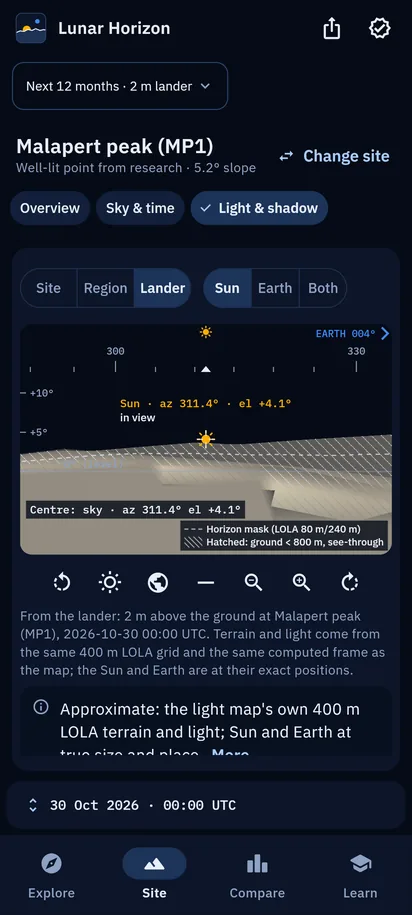
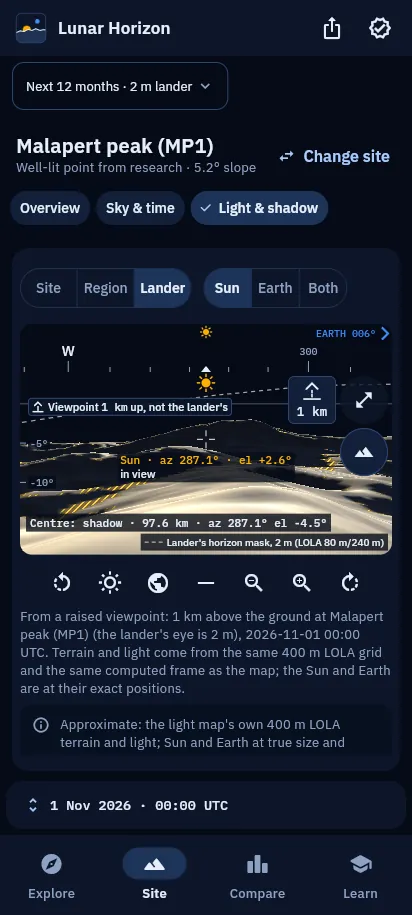
Docs: bring the README, plan and guides up to 1.11.0, with new screenshots
- README: the 7 screenshots re-shot from the 1.11.0 web build (1 Nov 2026,
  default settings); the two Lander's view shots show the full-screen view
  and the phone view from the 1 km viewpoint with relief shading. Captions
  and alt text match what each image shows. The Lander's view paragraph
  covers full screen, site switching, relief shading and the view from
  higher; the Overview paragraph and the sources mention the IM-1 and IM-2
  photo links (linked, never bundled).
- PLAN.md: status to 2026-11-01, with 1.9.1 done and 1.9.2 to 1.11.0 added.
- release_checklist.md: the current release and tag examples to 1.11.0;
  the Android 7 emulator runs of 1.9.2 and 1.11.0 recorded (it was listed
  as not tested).
- demo_script, demo_30s, judge_one_pager, final_review_plan, ux_spec and
  submission: version references and feature notes to 1.11.0. The demo
  video and team sections are left for the team.

Claude-Session: https://claude.ai/code/session_014cZmiMc7imPdB8JrrmQw6C

diff --git a/README.md b/README.md
@@ -9,7 +9,7 @@ Lunar Horizon answers one question: *which south-pole landing site, on which dat
 
 The same Flutter code runs as a web app and on Android.
 
-> **Status.** Complete: Explore (the map with every site ranked), Site (Overview, Sky & time with the classic sky plot and timeline, and the light & shadow map with the 3D *Lander's view*), Compare and Learn, plus the *best landing window* finder. Suggested landings keep the Sun and Earth at least 0.25° above the skyline. The Sun's visible fraction allows for lunar eclipses (Earth in front of the Sun), and the sites include the NASA CLPS landers' positions (IM-1, IM-2) and the VIPER area, plus planned international sites (Chang'e-7, Chandrayaan-5/LUPEX). Code: [localizedprojects/CLPS-MOON-BROWSER](https://github.com/localizedprojects/CLPS-MOON-BROWSER). Web app: <https://localizedprojects.github.io/CLPS-MOON-BROWSER/>.
+> **Status.** Complete: Explore (the map with every site ranked), Site (Overview, Sky & time with the classic sky plot and timeline, and the light & shadow map with the 3D *Lander's view*, which also opens full screen), Compare and Learn, plus the *best landing window* finder. Suggested landings keep the Sun and Earth at least 0.25° above the skyline. The Sun's visible fraction allows for lunar eclipses (Earth in front of the Sun), and the sites include the NASA CLPS landers' positions (IM-1, IM-2, with links to their real photos) and the VIPER area, plus planned international sites (Chang'e-7, Chandrayaan-5/LUPEX). Code: [localizedprojects/CLPS-MOON-BROWSER](https://github.com/localizedprojects/CLPS-MOON-BROWSER). Web app: <https://localizedprojects.github.io/CLPS-MOON-BROWSER/>.
 
 **Space Apps submission:** [docs/submission.md](docs/submission.md) (summary, NASA data used, use of AI, links).
 
@@ -26,19 +26,19 @@ Scan the code with your phone's camera. It opens <https://localizedprojects.gith
 
 ### Screenshots
 
-Version 1.9.2 web build, 30 October 2026: Next 12 months, 2 m lander, default rules, Balanced goal, time shown 30 October 2026 00:00 UTC.
+Version 1.11.0 web build, 1 November 2026: Next 12 months, 2 m lander, default rules, Balanced goal, time shown 1 November 2026 00:00 UTC. The two Lander's view shots are drawn from the 1 km viewpoint with relief shading on.
 
 | Explore | Malapert peak (MP1): best landing window and Sky & time |
 |---|---|
-| ![Explore: the top pick of the 19 ranked preset sites (Malapert peak, MP1: Sun and Earth both up 43% of the time), the sites on the LOLA terrain map, and the selected-site card](docs/screenshots/explore-desktop.webp) | ![Site: the best 14-day landing window for MP1 next to the Sky & time view](docs/screenshots/site-landing-sky-desktop.webp) |
+| ![Explore: the top pick of the 19 ranked preset sites (Malapert peak, MP1: Sun and Earth both up 43% of the time) with its computed light snapshot, the sites on the LOLA terrain map, and the selected-site card](docs/screenshots/explore-desktop.webp) | ![Site: the best 14-day landing window for MP1 (suggested landing 17 Nov 2026 02:00 UTC) next to the Sky & time view with the sky plot, timeline and time bar](docs/screenshots/site-landing-sky-desktop.webp) |
 
 | Compare | Phone: landing window | Phone: Sky & time |
 |---|---|---|
-| ![Compare: the top 3 sites with the winner card, the worked score and the side-by-side chart](docs/screenshots/compare-desktop.webp) | ![Phone: the best 14-day landing window card for MP1](docs/screenshots/landing-phone.webp) | ![Phone: Sky & time with the sky plot of the terrain skyline and the Sun and Earth paths](docs/screenshots/sky-phone.webp) |
+| ![Compare: the top 3 sites with the winner card (MP1 and IM-1 Odysseus tied at 62 / 100), the worked score and the side-by-side chart](docs/screenshots/compare-desktop.webp) | ![Phone: the best 14-day landing window card for MP1](docs/screenshots/landing-phone.webp) | ![Phone: Sky & time with the sky plot of the terrain skyline and the Sun and Earth paths, and the time bar with the next good stretch](docs/screenshots/sky-phone.webp) |
 
-| Light & shadow: Lander view (MP1, facing the Sun) | Phone: Lander view |
+| Lander's view, full screen (MP1, facing the Sun, 1 km viewpoint) | Phone: Lander's view (1 km viewpoint) |
 |---|---|
-| ![Light & shadow, Lander view at Malapert peak (MP1): the horizon from 2 m up, facing the Sun, with the computed light on the 400 m LOLA terrain](docs/screenshots/lander-desktop.webp) | ![Phone: the Lander view at Malapert peak (MP1), facing the Sun, with its turn, face and zoom buttons](docs/screenshots/lander-phone.webp) |
+| ![The Lander's view full screen at Malapert peak (MP1), facing the Sun from a viewpoint 1 km up (labelled "Viewpoint 1 km up, not the lander's") with relief shading on: the computed light on the 400 m LOLA terrain, the lander's dashed 2 m horizon mask, and the site switcher and layer switch in the top bar](docs/screenshots/lander-desktop.webp) | ![Phone: the Lander's view at Malapert peak (MP1) in Light & shadow, facing the Sun from a viewpoint 1 km up with relief shading on, with its height, relief and full-screen buttons and its turn, face and zoom buttons](docs/screenshots/lander-phone.webp) |
 
 ---
 
@@ -52,11 +52,11 @@ It opens with a short animation (the Sun skimming along the south-pole horizon, 
   - The map opens on the region inside 80°S. Zoom out (or drag past the edge) to see on to about 75°S: coarser shaded relief there, with the sunlight, Earth and permanent-shadow layers continuing across 80°S. Custom spots still go inside the 80°S circle.
   - Site cards show a terrain thumbnail, bars for sunlight, Earth in view and both together, and the longest night. On phones and tablets Explore shows the terrain map with the top pick and a row of site cards under it; on wide screens the list and the map sit side by side. A tray collects sites to compare.
 - **Site: everything about one site**, in three tabs (deep links `#/site/<id>/overview`, `/sky` and `/light`):
-  - **Overview:** *When should you land here?*: pick a surface-mission length (1 to 30 days, 14 by default) and *Find the best landing window* returns the earliest span of landing times in your dates whose whole mission keeps the Sun and Earth above the skyline, with a suggested landing and the mission's end. If no window fits, it gives the closest fit for your goal and the longest Sun + Earth stretch there is. *Use these dates* sets the period around the answer, *Next window that fits* moves on, and an approximation badge states how far the timing can be trusted. Next, *At a glance*: what the place is, why it is on the list (or, for your own spot, what stands out against the catalogue sites), what to watch out for and how it ranks. Catalogue sites are described from published, fact-checked sources, listed under *Details and sources*; your own spots are described by the app from its own numbers, with the coarse-map lines marked approximate. Then, under *More about this site*, a light snapshot of the best moment or of the middle of the longest night; the three headline shares; *Best time to be here* (the longest Sun + Earth stretch, with *Show me* and *See the light at that moment*); a *Which days work?* calendar of good days (Sun and Earth up together at least half the UTC day, with the best stretch outlined); *Plan for the dark* (the longest night that batteries and heaters must last, and the longest time without Earth); and *About this site*, with the source, slope and the 18.6-year average sunlight and Earth visibility for catalogue sites.
+  - **Overview:** *When should you land here?*: pick a surface-mission length (1 to 30 days, 14 by default) and *Find the best landing window* returns the earliest span of landing times in your dates whose whole mission keeps the Sun and Earth above the skyline, with a suggested landing and the mission's end. If no window fits, it gives the closest fit for your goal and the longest Sun + Earth stretch there is. *Use these dates* sets the period around the answer, *Next window that fits* moves on, and an approximation badge states how far the timing can be trusted. Next, *At a glance*: what the place is, why it is on the list (or, for your own spot, what stands out against the catalogue sites), what to watch out for and how it ranks. Catalogue sites are described from published, fact-checked sources, listed under *Details and sources*; your own spots are described by the app from its own numbers, with the coarse-map lines marked approximate. Then, under *More about this site*, a light snapshot of the best moment or of the middle of the longest night; the three headline shares; *Best time to be here* (the longest Sun + Earth stretch, with *Show me* and *See the light at that moment*); a *Which days work?* calendar of good days (Sun and Earth up together at least half the UTC day, with the best stretch outlined); *Plan for the dark* (the longest night that batteries and heaters must last, and the longest time without Earth); and *About this site*, with the source, slope and the 18.6-year average sunlight and Earth visibility for catalogue sites. The IM-1 and IM-2 landed sites add *Real photos from this lander*: links to NASA's pages with each lander's own surface photos and the Lunar Reconnaissance Orbiter's photos of it, each with its date and credit (linked, never bundled).
   - **Sky & time:** status chips for the Sun, the Earth and power + contact at the cursor; a **sky plot** of the site's real terrain skyline with the Sun's and Earth's paths over the period and their positions and heights at the time shown; a **timeline** of the Sun's and Earth's heights over the period against the skyline beneath each, with bars for when the Sun, Earth and both together are up (tap it to jump there); and a time bar to play, scrub, step by day or jump to the next Sun + Earth stretch (a good one, 24 h or more, first). Touch any chart (here or on Compare) to see it alone, full screen, as a still picture made at the screen's size (only its X closes it); the timeline turns a phone or tablet sideways there. A *Simple view* switch shows plain-words versions instead: a *When* answer (when Sun and Earth are next up together and for how long, the next dark spell, when Earth next comes into view), a timeline of the stretches with their durations for the next 2 weeks, 2 months or the whole period, a *Coming up* list, and a *Where to look* sky view.
   - **Sky & time** and **Light & shadow** share a time bar: Play, a day back or forward and a slider. Play hides the top bars so the charts stay still; they come back when you scroll to the very top. The time bar folds into a slim strip with its chevron, and the app remembers that.
   - **Light & shadow:** computed light and shadow on the terrain map for the selected moment, traced on the device from the LOLA elevation model. Choose a 128 km close-up around the site or the whole region inside 80°S, and a *Sunlight*, *Earth view* or *Both* layer. Sun and Earth bearing arrows start at the site; a legend gives the share of the area that is sunlit or sees Earth, and a badge states the measured accuracy (see [Validation](#validation)). Play moves ten hours per step here, so the shadows sweep at a readable pace; while playing the map is drawn at half resolution and says so, and pausing brings back full detail.
-  - **Lander's view** (the third view in Light & shadow): what you would see standing on the lander, 2 m (or 10 m) above the selected site, at the time on the time bar. The terrain is the shadow engine's own LOLA height grid (400 m around the site, 800 m blocks out to 300 km), lit pixel for pixel by the same computed light frames, and the Sun and Earth are drawn at their exact apparent positions and sizes. Drag to look around, pinch or use the buttons to zoom, and jump to the Sun or Earth. A compass tape, an elevation scale and the dashed LOLA horizon mask frame the view; ground closer than 800 m, which the 400 m grid does not resolve, is drawn see-through and hatched where it would rise above the distant skyline, and the view says so.
+  - **Lander's view** (the third view in Light & shadow): what you would see standing on the lander, 2 m (or 10 m) above the selected site, at the time on the time bar. The terrain is the shadow engine's own LOLA height grid (400 m around the site, 800 m blocks out to 300 km), lit pixel for pixel by the same computed light frames, and the Sun and Earth are drawn at their exact apparent positions and sizes. Drag to look around, pinch or use the buttons to zoom, and jump to the Sun or Earth. A compass tape, an elevation scale and the dashed LOLA horizon mask frame the view; ground closer than 800 m, which the 400 m grid does not resolve, is drawn see-through and hatched where it would rise above the distant skyline, and the view says so. The expand button (or F) opens the view full screen, where previous / next buttons and the site picker switch the landing site without leaving it. Two drawing aids, each labelled in the legend and the approximation badge, make the terrain easier to read: *relief shading* (a switch, on by default) shades the ground by the slopes of the same LOLA heights under a fixed drawing light, never the Sun; and the height button raises the viewpoint from the lander's own height to 200 m, 1 km or 5 km above the site. Only the drawing eye moves: the light, the Sun's and Earth's directions, their status words and the dashed horizon stay the lander's, ground near the site is drawn solid, and the view says so (for example "Viewpoint 1 km up, not the lander's").
 - **Compare: two to four sites with a transparent score.** Pick a shortlist, choose a goal or fine-tune the weights (power against communication, and the weight of having both up together). A winner card states the best site for your priorities and the worked arithmetic of its score ("Why N?"), with a note when the top two tie after rounding. A *Side by side* chart (each site's score, sunlight, Earth in view, Sun + Earth together and longest dark), ranked cards, a *Good days by month* table and all the numbers follow.
 - **Test your own spot.** Zoom the map (the + and − buttons, or pinch) and tap anywhere south of 80°S and confirm with *Check this spot*, or type the coordinates. The app computes that spot's horizon on the device and runs the same time-series, metric and score calculations as for a preset site. The result is labelled as lower fidelity (see [Assumptions and limitations](#assumptions-and-limitations)).
 - **Change the mission rules** (Mission settings sheet):
@@ -251,6 +251,8 @@ flutter test integration_test/map_75s_test.dart -d emulator-5554    # the Explor
 > - The light and shadow map draws its computed shadows and slope shading on top of this relief. Those layers use the real Sun and Earth directions for the selected moment.
 
 **Site coordinates.** NASA (Artemis III regions update, 28 Oct 2024), Henriksen et al. (2023) and LROC NAC mosaics, De Rosa et al. (2012), LROC images of IM-1 and IM-2, and Beyer et al. (2025) for VIPER. Each site's full source list, with URLs and notes, is in `app/assets/data/sites.json`.
+
+**Lander photos.** The IM-1 and IM-2 site pages link to real photos on NASA's pages and never bundle them: the landers' surface photos (© Intuitive Machines) and LRO's photos of each lander from orbit (NASA/Goddard/Arizona State University). The links, dates and credits are in `app/lib/content/lander_photos.dart`.
 
 **Fonts.** IBM Plex Sans and IBM Plex Mono, under the SIL Open Font License 1.1. They are bundled in `app/assets/fonts/` with their licence files, and the chart bundle embeds them from the `@fontsource` packages.
 

diff --git a/docs/judge_one_pager.md b/docs/judge_one_pager.md
@@ -19,9 +19,9 @@
 - A good-days calendar for each site, good days by month across the shortlist, and the longest night to plan batteries for.
 - Custom sites: drop a pin or type coordinates, and the horizon is computed on the device.
 - Options: a Deep Space Network check, a 10 m mast, three Sun rules, and CSV and PNG export.
-- *Lander's view*: a 3D look around from the lander, using the light map's own 400 m terrain and light (approximate, labelled).
+- *Lander's view*: a 3D look around from the lander, using the light map's own 400 m terrain and light (approximate, labelled). It opens full screen, switches sites inside it, and offers two labelled drawing aids: relief shading and a view from higher (200 m, 1 km or 5 km; the light and the Sun and Earth status stay the lander's).
 - Lunar eclipses: the part of the Sun hidden behind Earth is left out of the Sun fraction and the power.
-- A mission catalogue: CLPS landed positions (IM-1, IM-2), the VIPER area, and planned international sites.
+- A mission catalogue: CLPS landed positions (IM-1, IM-2, with credited links to their real photos on NASA's pages), the VIPER area, and planned international sites.
 - Sunset and Earthset countdowns with the live power in W/m².
 
 **Who it serves.** The public gets a plain answer first. Educators get the Learn section (explanations, a glossary, how the score works). Mission planners get exact numbers on request and CSV files that record their sources.
@@ -39,7 +39,7 @@
 
 ![Malapert peak (MP1): the best 14-day landing window next to the Sky & time view](screenshots/site-landing-sky-desktop.webp)
 
-*Version 1.9.2 web build of 30 October 2026, next 12 months, 2 m lander. More screenshots are in the [README](../README.md#screenshots).*
+*Version 1.11.0 web build of 1 November 2026, next 12 months, 2 m lander. More screenshots are in the [README](../README.md#screenshots).*
 
 **Next steps.** Refine near-field terrain with 20 m LOLA data, check the 2 m Earth numbers at peaks and ridges (Malapert peak's 56% rises to 78% with a 10 m mast).
 
@@ -65,7 +65,7 @@ Sources for every number in this brief (paths relative to the repository root; v
 - 10 m mast, three Sun rules, DSN check: app/lib/widgets/sheets/mission_settings_sheet.dart; DSN threshold 10° in ephem/manifest.json dsn.minElevationDeg.
 - 48 dp tap targets and screen-reader labels (a project rule) and the power proxy (1361 W/m² × (1 au/r)² × visible fraction): CLAUDE.md.
 - Glyph shapes: app/lib/widgets/glyphs.dart. Map textures: app/lib/widgets/light_map.dart. 2 px focus rings: app/lib/theme.dart. Keyboard shortcuts and reduced motion: app/lib/screens/shell.dart and app/lib/theme.dart (disableAnimations). "Explain as I go": app/lib/screens/learn.dart. Export: app/lib/core/export_csv.dart, app/lib/state/chart_hub.dart (exportPng).
-- Lander's view (added in 1.9.0): docs/landers_view_spec.md §1 (terrain = the light engine's 400 m height grid, light = its LightFrame); app/lib/widgets/lander_view.dart (*Face the Sun*); formula.md §12.11 and app/lib/content/how_calculated.dart ("Lander's view"). Lunar eclipses: formula.md §6.5 (added 2026-10-29). Mission catalogue: app/assets/data/sites.json group "missions" (IM-1 and IM-2 landed positions, IM-2 intended target, VIPER mission area, Chang'e-7 planned site, Chandrayaan-5/LUPEX candidate). Countdowns and power: app/lib/core/countdown.dart.
+- Lander's view (added in 1.9.0): docs/landers_view_spec.md §1 (terrain = the light engine's 400 m height grid, light = its LightFrame); app/lib/widgets/lander_view.dart (*Face the Sun*); formula.md §12.11 and app/lib/content/how_calculated.dart ("Lander's view"); full screen and site switching (1.10.0): docs/landers_view_spec.md "Full screen and site switching" and app/lib/widgets/lander_full_screen.dart; relief shading and the view from higher (1.11.0): docs/landers_view_spec.md D21 and D22 and app/lib/widgets/lander_view.dart (`landerViewpointItem`, `landerViewpointChip`). Lander photo links (1.11.0): app/lib/content/lander_photos.dart. Lunar eclipses: formula.md §6.5 (added 2026-10-29). Mission catalogue: app/assets/data/sites.json group "missions" (IM-1 and IM-2 landed positions, IM-2 intended target, VIPER mission area, Chang'e-7 planned site, Chandrayaan-5/LUPEX candidate). Countdowns and power: app/lib/core/countdown.dart.
 - About 10.5 MB: the committed files under app/assets/data total 12,723,990 bytes (git ls-tree -r -l at 709f795, 1.9.0); 2,269,943 bytes of that are app/assets/data/renders/ (Blender check images), which app/pubspec.yaml does not list as assets, leaving 10,454,047 bytes that the app bundles (README.md "On the device").
 - Custom sites, 400 m grid: app/assets/data/map/map.json dem.pxM = 400. 0.46°-1.41° mean and 6.14° max at four test sites: formula.md section 5.2 table and section 13.11.
 - 20 m LOLA data (LDEM_85S_20M): PLAN.md section 6, risk table. Web build, Android screenshots, README, demo script: PLAN.md milestone M6.

diff --git a/PLAN.md b/PLAN.md
@@ -85,13 +85,17 @@ pipeline/ (Python: spiceypy, numpy)              app/assets/data/ (committed, ~1
 - **M5:** Explain mode, accessibility, export, polish. **Done** (initial release).
 - **M6:** README, demo script, judge one-pager, web deploy config, and **an Android emulator run with screenshots**. **Done** (initial release); the web app is published from `main` by `deploy-pages.yml`.
 
-**Status (2026-10-30).** M1–M6 were built before the repository's first public commit (`5838d00`, 2026-10-14, history squashed), so there are no separate `M<n>` commits; later work shipped as numbered releases through pull requests:
+**Status (2026-11-01).** M1–M6 were built before the repository's first public commit (`5838d00`, 2026-10-14, history squashed), so there are no separate `M<n>` commits; later work shipped as numbered releases through pull requests:
 - **1.1.0–1.3.1** (2026-10-17 to 10-20): loading screen, Play kept in step with the charts, first-launch tutorial, Android 7 fixes.
 - **1.4.0** (10-20): feature guides on every screen. **1.5.0** (10-25): the *At a glance* overview for every site.
 - **1.6.0–1.7.0** (10-28): terrain and the Explore map's layers out to 75°S, so sites near 80°S (IM-1) get a full light & shadow close-up.
 - **1.8.0** (10-29): sunset and Earthset countdowns, the mission catalogue grows from 16 to 19 sites (IM-2's intended target, Chang'e-7's planned site and a Chandrayaan-5/LUPEX candidate join the IM-1 and IM-2 landed positions and the VIPER area; groups renamed), live power, exact time entry, and **lunar eclipses**: the Sun's visible fraction now leaves out the part of its disk behind Earth (`formula.md` §6.5).
 - **1.9.0** (10-30): the **Lander's view**, a 3D look around the horizon from the lander, built from the light map's own 400 m terrain and its computed light for the moment shown, and labelled approximate (`docs/landers_view_spec.md`, `formula.md` §12.11).
-- **1.9.1** (in progress): Lander's view phone layout and readability fixes, a Learn card, shortcuts, and the version shown in the app.
+- **1.9.1** (10-30): Lander's view phone layout and readability fixes, a Learn card, shortcuts, and the version shown in the app.
+- **1.9.2** (10-31): the Lander's view callouts kept clear of the readout, legend, crosshair and each other; Compare's expand button in a heading row; competition assets.
+- **1.9.3** (10-31): sixteen fixes from the Android 7 emulator run, each with a test.
+- **1.10.0** (10-31): the Lander's view full screen (the expand button or F), with previous / next and the site picker switching the landing site inside it.
+- **1.11.0** (11-01): the Lander's view gets relief shading (slopes of its own LOLA heights under a fixed drawing light, not the Sun; switchable) and a view from higher (2 m lander, 200 m, 1 km, 5 km; only the drawing eye moves), both labelled; the IM-1 and IM-2 site pages link to real photos from each lander on NASA's pages; the now-status sentence is worked out at the whole minute shown.
 
 ## 5. Assumptions (decided without asking)
 

diff --git a/docs/release_checklist.md b/docs/release_checklist.md
@@ -36,17 +36,23 @@
 - [ ] Play feature graphic 1024x500, 512x512 icon; short and full description; credit NASA data sources.
 
 ## Testing status (before the first store upload)
-- These notes were written at v1.1.0; re-check each line against the current release (1.9.2) before
+- These notes were written at v1.1.0; re-check each line against the current release (1.11.0) before
   the first store upload.
 - Planned end-to-end runs (record results here): Android emulator (Android 14, API 34) on normal
   and small screens, offline, rotation, backgrounding during Play; the same on the Mac's iOS simulators.
 - Done: release App Bundle builds (debug-signed until the upload key exists).
-- **Not tested:** Android 7 to 9 (only the API 34 system image is installed), real iPhones and iPads,
-  real low-end Android phones, Play pre-launch report (runs after the first upload: check it).
+- Done: Android 7.0 (API 24, 32-bit ARM emulator, stock WebView 51): a walkthrough of every screen
+  on 1.9.2, whose 16 bugs were fixed in 1.9.3, and the Explore map integration test
+  (`map_75s_test.dart`) passed. On WebView 51 the charts show the "update your WebView" message, as designed.
+  1.11.0 on the same emulator (2026-11-01): it updated in place over 1.9.3 with the settings kept; the
+  Lander's view heights, relief switch, full screen with site switching, landscape, the IM-1 and IM-2
+  photo cards and Back navigation worked, with no app errors in logcat.
+- **Not tested:** Android 8 and 9, real iPhones and iPads, real low-end Android phones, Play
+  pre-launch report (runs after the first upload: check it).
 
 ## Competition / sideload release (GitHub Releases APK)
 For the Space Apps entry and anyone installing from the QR code. This APK is not a store build.
-- [ ] Bump `version:` in `app/pubspec.yaml` (for example `1.9.2+13`; the build number must rise, or
+- [ ] Bump `version:` in `app/pubspec.yaml` (for example `1.11.0+16`; the build number must rise, or
       Android refuses to install the update over the earlier one). After the build, check that the
       version the app shows matches.
 - [ ] From `app/`: `flutter build apk --release`. Without `app/android/key.properties` the release APK
@@ -56,7 +62,7 @@ For the Space Apps entry and anyone installing from the QR code. This APK is not
       ones; a build signed with another key must be uninstalled first.
 - [ ] Rename `app/build/app/outputs/flutter-apk/app-release.apk` to `lunar-horizon.apk` and record its
       checksum: `sha256sum lunar-horizon.apk` (PowerShell: `Get-FileHash lunar-horizon.apk`).
-- [ ] Publish a GitHub release (tag `v1.9.2`, notes with the changes and the SHA-256), attach
+- [ ] Publish a GitHub release (tag `v1.11.0`, notes with the changes and the SHA-256), attach
       `lunar-horizon.apk`, and mark it **latest**.
 - [ ] Check that <https://github.com/localizedprojects/CLPS-MOON-BROWSER/releases/latest/download/lunar-horizon.apk>
       downloads the new file (same SHA-256), then install it over the previous version on a phone.

diff --git a/docs/demo_script.md b/docs/demo_script.md
@@ -7,11 +7,13 @@ aloud: the app recomputes them for "the next 12 months" from today's date.
 default settings (next 12 months, 2 m lander). Close other tabs. Have the "Can I trust
 these numbers?" page one tap away. Total: about 3:00.
 
-**What it should look like** (version 1.9.1 web build of 30 October 2026; the dates will differ
+**What it should look like** (version 1.11.0 web build of 1 November 2026; the dates will differ
 on the day): the [landing window and Sky & time](screenshots/site-landing-sky-desktop.webp)
 for Malapert peak (MP1), the [phone landing card](screenshots/landing-phone.webp) and
-[Sky & time on a phone](screenshots/sky-phone.webp), the [Lander view](screenshots/lander-desktop.webp)
-([on a phone](screenshots/lander-phone.webp)), and [Compare](screenshots/compare-desktop.webp).
+[Sky & time on a phone](screenshots/sky-phone.webp), the [Lander's view, full screen](screenshots/lander-desktop.webp)
+([on a phone](screenshots/lander-phone.webp); both shots are from the 1 km viewpoint, while from the
+lander's 2 m the distant ground is a thin band along the skyline and nearer ground is see-through),
+and [Compare](screenshots/compare-desktop.webp).
 
 ---
 
@@ -83,10 +85,16 @@ so it is approximate, and the badge says so."
 
 **Point at:** the Sun on the skyline and the approximation badge.
 
+**Optional, about 5 s, only if the segment has time left:** tap the height button (it reads
+**2 m**) and choose **1 km up**; wait for "Building the view…" to finish. **Say:** "From higher
+up the ground is easier to read. It is a drawing aid, and it says so: the Sun and Earth
+status stays the lander's." **Point at:** the chip "Viewpoint 1 km up, not the lander's".
+
 ## 2:10–2:30 · Compare and decide (Compare)
 
 **Show:** Compare with the top 3 shortlisted. The chart under "Best for your priorities"
-says "Best: {site}" (or "almost tied with {site}" when the scores are close), with one
+says "Best: {site}" (or "almost tied with {site}" when the scores are close, or "Tied: {site}
+and {site}, both {N}" when they round to the same score, as in the screenshot), with one
 block per site: sunlight, Earth and Sun + Earth bars and the longest dark. Tap "Earth
 contact first" and the order changes live.
 

diff --git a/docs/demo_30s.md b/docs/demo_30s.md
@@ -7,7 +7,7 @@ captions**, and runs 30 s or less. Record it from the web build
 
 ## Before recording
 
-- Use the release web build (1.9.2 or later) in a desktop browser window about 1440 × 900,
+- Use the release web build (1.11.0 or later) in a desktop browser window about 1440 × 900,
   with the default settings: next 12 months, 2 m lander, goal **Balanced**.
 - Rehearse once in the same browser profile, opening Explore, Site (each tab) and Learn, so
   the first-visit feature guides have been seen and do not cover the controls on the take.
@@ -41,6 +41,9 @@ Total: 29.9 s (30 s or less). Captions are 9 to 11 words each.
   of the Sun and Earth checks in `app/assets/data/validation.json`, `app_vs_horizons`). If
   the page shows a different value, use that value.
 - Shot 5: the Lander's view uses the light map's own 400 m terrain and computed light; it
-  is approximate and labelled so in the app. The caption says so too.
+  is approximate and labelled so in the app. The caption says so too. Keep the height button
+  at **2 m** (the lander's own eye): from 200 m, 1 km or 5 km the view says "Viewpoint … up,
+  not the lander's", and the caption would no longer hold. The README's Lander shots are from
+  1 km.
 - Put the title, links and credits in the video description (see
   [submission.md](submission.md)), not in the 30 s.

diff --git a/docs/ux_spec.md b/docs/ux_spec.md
@@ -1,11 +1,14 @@
 # Lunar Horizon UX redesign: concept scores, final spec and build plan
 
-> **Status note (2026-10-30).** This is the original design record. Its Blender-render parts (the
+> **Status note (2026-11-01).** This is the original design record. Its Blender-render parts (the
 > rendered PanoHero, the *Look around* tab and the 360 view, the turntable and the render thumbnails)
 > were superseded on 2026-10-10 by the computed light & shadow map (`app/lib/core/shadow.dart`) and the
 > *Light & shadow* tab; the renders are kept only as a skyline cross-check in `validation.json`. The
 > *Lander's view*, a 3D view from the lander built from the light map's own terrain and light, was
-> added in 1.9.0 ([landers_view_spec.md](landers_view_spec.md)). Read the README for the app as it is.
+> added in 1.9.0 ([landers_view_spec.md](landers_view_spec.md)); 1.10.0 opens it full screen with site
+> switching inside it, and 1.11.0 adds two labelled drawing aids, relief shading and a view from
+> higher (200 m, 1 km, 5 km). The IM-1 and IM-2 site pages link to real photos from each lander
+> (1.11.0). Read the README for the app as it is.
 
 ## Scores
 

diff --git a/docs/final_review_plan.md b/docs/final_review_plan.md
@@ -1,9 +1,10 @@
 # Final deep review: plan
 
-> **Status note (2026-10-30).** This plan is unchanged since 2026-10-10. The app has grown since
-> (releases 1.1.0 to 1.9.1; see PLAN.md §4): the light & shadow map out to 75°S, lunar eclipses in the
+> **Status note (2026-11-01).** This plan is unchanged since 2026-10-10. The app has grown since
+> (releases 1.1.0 to 1.11.0; see PLAN.md §4): the light & shadow map out to 75°S, lunar eclipses in the
 > Sun fraction (`formula.md` §6.5), three more mission sites (IM-2's intended target, Chang'e-7, Chandrayaan-5/LUPEX), sunset and Earthset countdowns with live
-> power, and the Lander's view (`docs/landers_view_spec.md`). A run of this plan must cover those
+> power, the Lander's view with its full screen, relief shading and view from higher
+> (`docs/landers_view_spec.md`), and the IM-1 and IM-2 real-photo link cards. A run of this plan must cover those
 > too, in parts 3 to 6 and 10 to 12. No record of a complete run is kept in the repository.
 
 The user asked for this on 2026-10-10. Once every step is done, run one complete

diff --git a/docs/submission.md b/docs/submission.md
@@ -37,6 +37,9 @@ LOLA team's own visibility maps.
 - **Site coordinates:** NASA's Artemis III candidate regions (update of 28 October 2024) and
   LRO LROC images of the IM-1 and IM-2 landers, with the other published sources listed per
   site in `app/assets/data/sites.json`.
+- **Lander photos (linked, not bundled):** the IM-1 and IM-2 site pages link to NASA's pages
+  with each lander's own surface photos (© Intuitive Machines) and LRO's photos of the landers
+  from orbit (NASA/Goddard/Arizona State University).
 
 ## Use of AI
 
